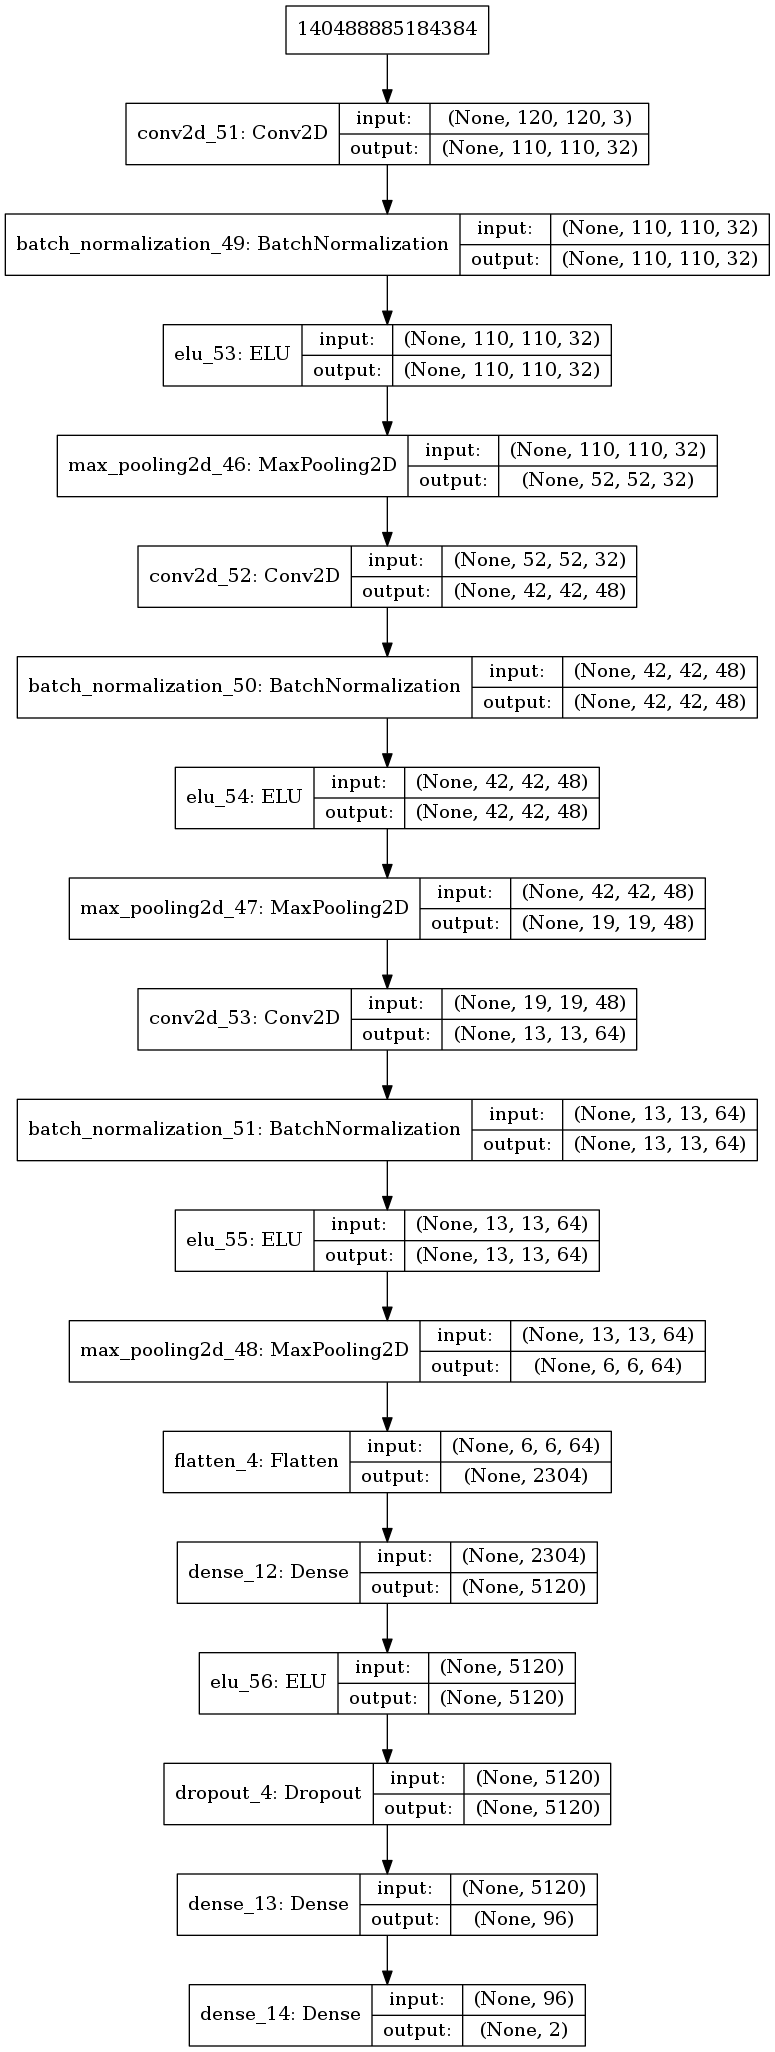
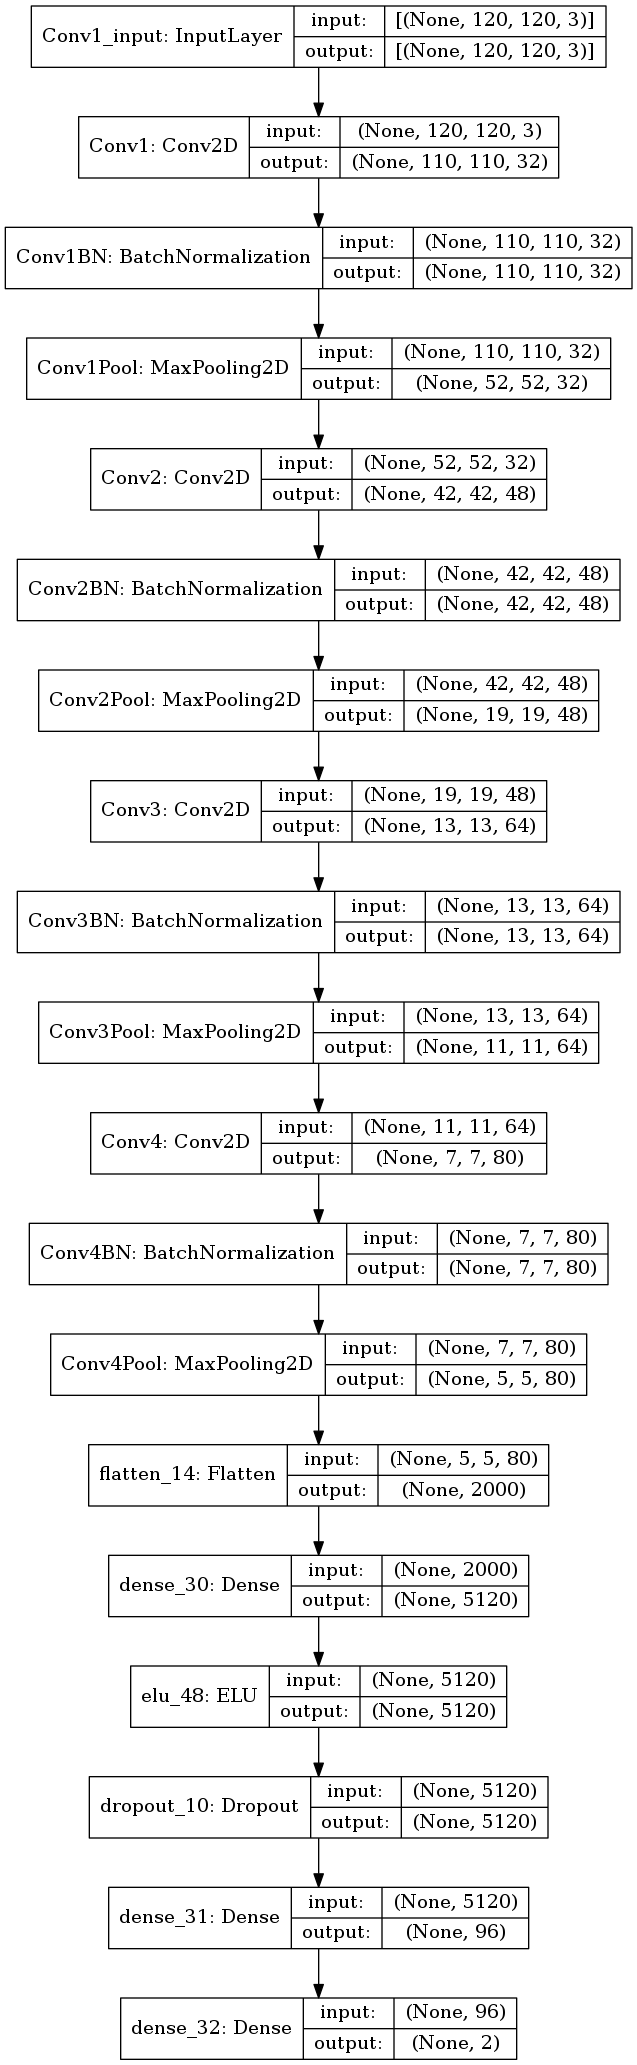
added regularized and 4th layer to cracknet

Changed region(s): [[0.0, 0.0, 1.0, 0.9981], [0.0895, 0.0, 0.1193, 0.0312], [0.0298, 0.0, 0.0597, 0.0312]]

diff --git a/src/cnnmodels/cracknet.py b/src/cnnmodels/cracknet.py
@@ -8,6 +8,7 @@ from tensorflow.keras.layers import Flatten
 from tensorflow.keras.layers import Dropout
 from tensorflow.keras.layers import Dense
 from tensorflow.keras.layers import ELU
+from tensorflow.keras.regularizers import l2
 from tensorflow.keras.optimizers import SGD
 from tensorflow.keras.callbacks import ModelCheckpoint
 from tensorflow.keras.callbacks import CSVLogger
@@ -23,42 +24,73 @@ import matplotlib.pyplot as plt
 def build_cracknet(input_shape=(120,120,3),n_output_classes=2):    
     model = Sequential()
     
+    bias_regularization = 0.0001
+    kernel_regularization = 0.0001
+    
     # Convolution + Batch Norm. + ELU + Pooling #1  
-    model.add(Conv2D( 32, (11, 11), input_shape=input_shape, activation = 'relu', strides=1 ))
-    model.add(BatchNormalization())
-    model.add(ELU())
-    model.add( MaxPooling2D(pool_size = (7,7),strides=2))
+    model.add( 
+        Conv2D( 32, (11, 11), 
+               input_shape=input_shape, 
+               activation = 'relu', 
+               strides=(1,1), 
+               name="Conv1",
+               kernel_regularizer=l2(kernel_regularization),
+               bias_regularizer=l2(bias_regularization)
+        ) ) 
+    model.add( BatchNormalization( name="Conv1BN"))
+    #model.add( ELU( name="Conv1ELU" ))
+    model.add( MaxPooling2D(pool_size = (7,7),strides=(2,2), name="Conv1Pool" ) )
     
     # Convolution + Batch Norm. + ELU + Pooling #2
-    model.add(Conv2D( 48, (11, 11), activation = 'relu', strides=1 ))
-    model.add(BatchNormalization())
-    model.add(ELU())
-    model.add( MaxPooling2D(pool_size = (5,5),strides=2))
+    model.add( 
+        Conv2D( 48, (11, 11), 
+               input_shape=(52,52,32), 
+               activation = 'relu', 
+               strides=(1,1), name="Conv2",
+               kernel_regularizer=l2(kernel_regularization),
+               bias_regularizer=l2(bias_regularization)
+        ) )
+    model.add( BatchNormalization( name="Conv2BN" ))
+    #model.add( ELU( name="Conv2ELU" ))
+    model.add( MaxPooling2D(pool_size = (5,5),strides=(2,2), name="Conv2Pool" ) )
     
     # Convolution + Batch Norm. + ELU + Pooling #3
-    model.add(Conv2D( 64, (7,7), activation = 'relu', strides=1 ))
-    model.add(BatchNormalization())
-    model.add(ELU())
-    model.add( MaxPooling2D(pool_size = (3,3),strides=2))
+    model.add(
+        Conv2D( 64, (7,7), 
+        input_shape=(19,19,48), 
+        activation = 'relu', 
+        strides=(1,1), 
+        name="Conv3",
+        kernel_regularizer=l2(kernel_regularization),
+        bias_regularizer=l2(bias_regularization)
+    ) )
+    model.add(BatchNormalization(name="Conv3BN"))
+    #model.add(ELU( name="Conv3ELU"))
+    model.add( MaxPooling2D(pool_size = (3,3),strides=(1,1), name="Conv3Pool" ) ) 
     
     # Convolution + Batch Norm. + ELU + Pooling #4
-    # Note: layer commented because of error: 
-    #       'Negative dimension size caused by subtracting 3 from 1 for 'conv2d_2/convolution''
-    #model.add(Conv2D( 80, (5,5), activation = 'relu', strides=1 ))
-    #model.add(BatchNormalization())
-    #model.add(ELU())
-    #model.add( MaxPooling2D(pool_size = (3,3),strides=2))
+    model.add(
+        Conv2D( 80, (5,5), 
+               activation = 'relu', 
+               strides=(1,1), 
+               name="Conv4",
+               kernel_regularizer=l2(kernel_regularization),
+               bias_regularizer=l2(bias_regularization)
+        ))
+    model.add(BatchNormalization( name="Conv4BN" ))
+    #model.add(ELU( name="Conv4ELU" ))
+    model.add( MaxPooling2D(pool_size = (3,3),strides=(1,1), name="Conv4Pool" ) ) # Paper says (2,2) ?
     
     # Flattening
     model.add( Flatten() )
     
     # FC #1
-    model.add( Dense( units = 5120, activation = 'relu' ) )
+    model.add( Dense( units = 5120, input_shape=(96,), activation = 'relu', ) )
     model.add(ELU())
     model.add(Dropout(0.2))
     
     # FC #2
-    model.add( Dense( units = 96, activation = 'relu' ) )   
+    model.add( Dense( units = 96, input_shape=(2,), activation = 'relu' ) )   
     
     # Output Layer
     model.add( Dense( units = n_output_classes, activation = 'softmax' ) )   
